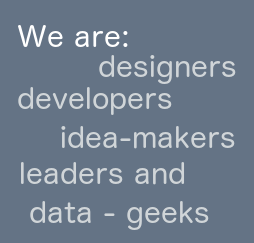
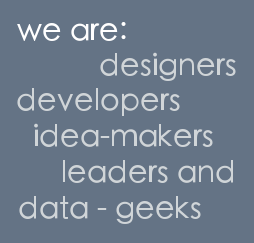
fixed up we are block so it has Heiti SC font.

diff --git a/site/partials/home.html b/site/partials/home.html
@@ -198,7 +198,7 @@
         </div>
         <div class="col-sm-10">
           <div class="main-message">
-            Join us and help Arlington, Alexandria and 
+            Join us and help Alexandria, Arlington and 
             Fairfax governments and civic organizations adopt open technologies.
             <a class="meetup-link" href="http://www.meetup.com/Arlington-Code-Shop/">Meet Up!</a>
           </div>
